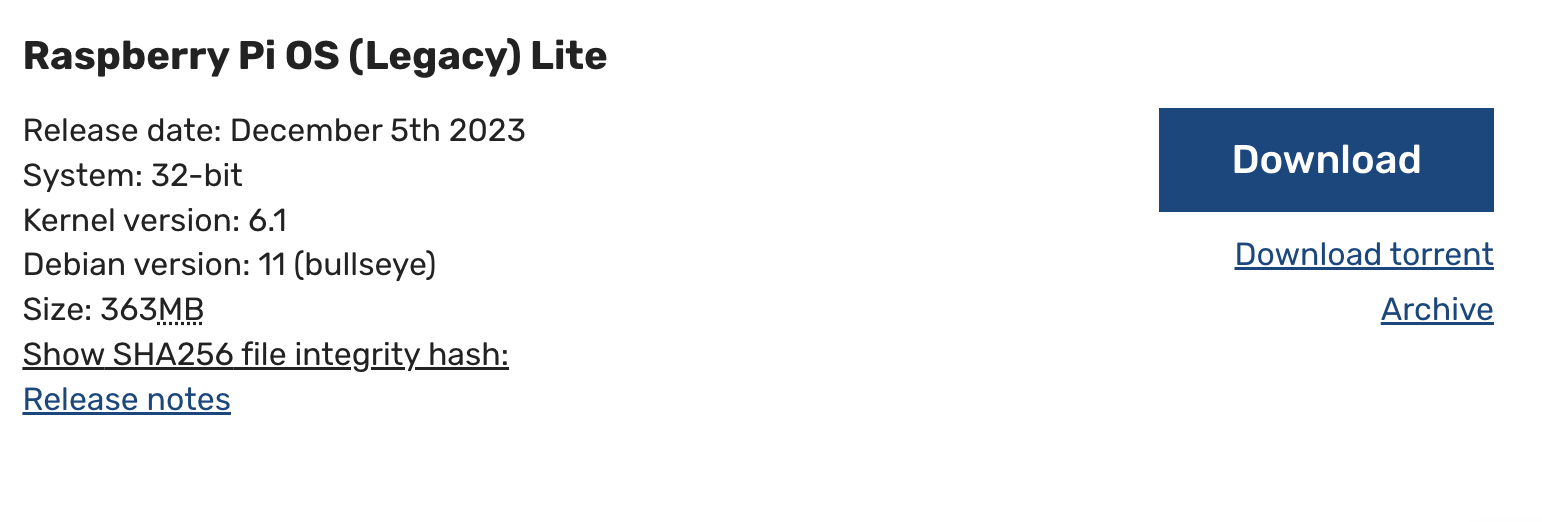
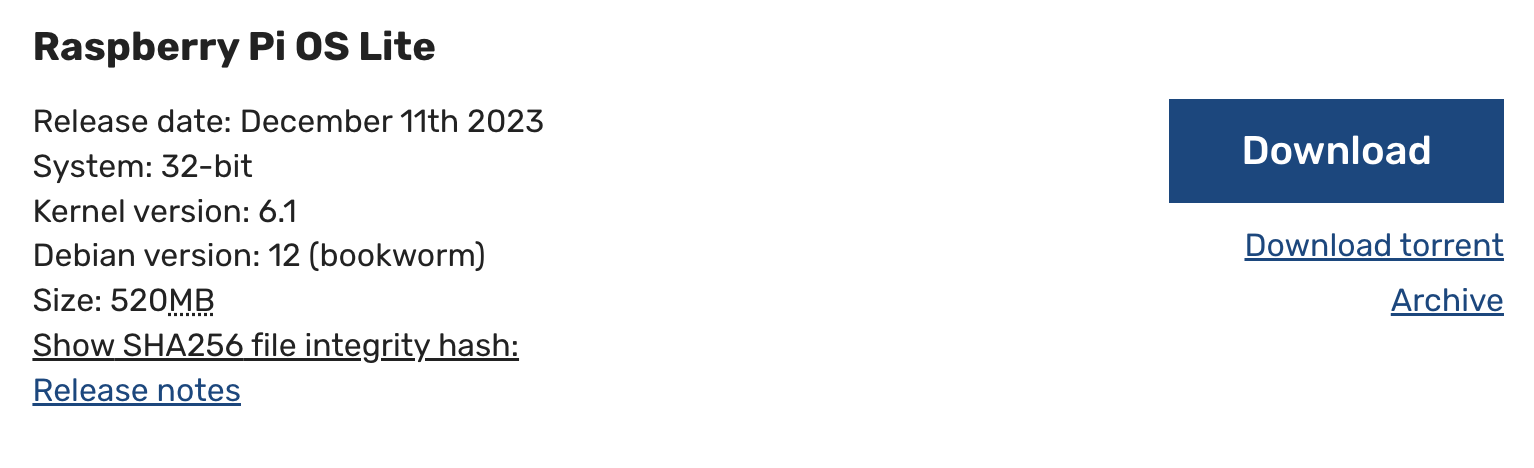
rasp(3)

diff --git a/_posts/2023-12-30-온습도 FullStack Project(3)-RaspberryPi OS 설치.md b/_posts/2023-12-30-온습도 FullStack Project(3)-RaspberryPi OS 설치.md
@@ -1,0 +1,52 @@
+---
+title: 온습도 FullStack Project(3)-RaspberryPi OS 설치
+date: 2023-12-29 00:02:00 +09:00
+categories: [Raspberry Pi, Project]
+tags:
+  [라즈베리파이, 프로젝트, 온습도, SSH, 커스텀세팅, Raspberry Pi, 라즈베리파이, OS 설치]
+---
+
+## 👉🏻[(1)사용할 Stack 정리](https://yuribini.github.io/posts/%EC%98%A8%EC%8A%B5%EB%8F%84-FullStack-Project-%EA%B0%81-Stack%EC%97%90-%EB%8C%80%ED%95%B4/)
+
+## 👉🏻[(2)RaspberryPi Model , OS선정](https://yuribini.github.io/posts/%EC%98%A8%EC%8A%B5%EB%8F%84-FullStack-Project(2)-RaspberryPi-Model-,-OS%EC%84%A0%EC%A0%95/)
+
+<br>
+<br>
+
+# OS 설치
+- Mac OS 기준으로 설명.
+- Windows OS 도 별반 다르지 않다.
+
+## 1. Imager Download
+![Imager Download](/images/Imager_Download.png)
+### [👉 Link https://www.raspberrypi.com/software/](https://www.raspberrypi.com/software/)
+- Imager를 다운로드 한다.
+
+<br>
+<br>
+
+## 2. Imager Setting
+![Imager Menu](/images/Imager_Menu.png)
+- Imager를 설치해주고 실행하면 위 창이 발생한다.
+- 디바이스는 본인 모델 선택해주면 되고..
+
+<br>
+
+![Use Custom](/images/Use_Custom.png)
+- 운영체제는 Use Custom 선택 후 지난 포스팅에 다운받았던 img.xz 파일을 선택해준다.
+>지난 포스팅 👉🏻[(2편)OS선정](https://yuribini.github.io/posts/%EC%98%A8%EC%8A%B5%EB%8F%84-FullStack-Project(2)-RaspberryPi-Model-,-OS%EC%84%A0%EC%A0%95/)
+
+<br>
+
+![Setting Adjust](/images/Setting_Adjust.png)
+
+<br>
+
+![Custom Setting](/images/Custom_Setting.png)
+
+<br>
+
+![Custom Service](/images/Custom_Service.png)
+
+- 위와 같이 세팅한 후 `예` 를 누르고 설치를 마무리 한다. 위 Setting에 Wifi 네트워크 세팅과 SSH 세팅이 모두 포함되어 있기 때문에 RaspberryPi 접속이 바로 가능해진다.
+- 커스터마이징 세팅을 하지 않을 경우 별도로 모니터를 연결하여 세팅이 필요하니 꼭 커스터마이징 세팅을 하도록 한다.

diff --git a/_posts/2023-12-26-온습도 FullStack Project(2)-RaspberryPi Model , OS선정.md b/_posts/2023-12-26-온습도 FullStack Project(2)-RaspberryPi Model , OS선정.md
@@ -3,7 +3,7 @@ title: 온습도 FullStack Project(2)-RaspberryPi Model , OS선정
 date: 2023-12-29 00:02:00 +09:00
 categories: [Raspberry Pi, Project]
 tags:
-  [라즈베리파이, 프로젝트, 온습도, DHT22, AM2302, Raspberry Pi]
+  [라즈베리파이, 프로젝트, 온습도, DHT22, AM2302, Raspberry Pi, 라즈베리파이 종류]
 ---
 
 # Raspberry Pi Model 선정
@@ -40,6 +40,6 @@ tags:
 
 👉 [설치링크](https://www.raspberrypi.com/software/operating-systems/)
 
-- RaspberryPi Lite OS (레거시)를 설치하였다.
-- RaspberryPi Lite OS는 GUI가 없는 Headless OS 인데, 불필요한 OS 용량을 줄일 수 있으며 서버로 사용하기에 적합하다. (16GB SD Card를 사용할 예정이다. Headless는 보안, 속도, 안정성 등 그래픽을 포기하면 장점이 꽤 많다.)
-
+- RaspberryPi Lite OS (32bit)를 설치하였다.
+- RaspberryPi Lite OS는 GUI가 없는 Headless OS 인데, 불필요한 OS 용량을 줄일 수 있으며 서버로 사용하기에 적합하다. (Headless는 보안, 속도, 안정성 등 그래픽을 포기하면 장점이 꽤 많다.)
+- 만약 본인의 RaspberryPi가 구형 RaspberryPi인 경우 오랜시간 검증되고 가벼운 Debian 11(billseye) 버전의 `Raspberry Pi OS (Legacy)`를 추천한다.
